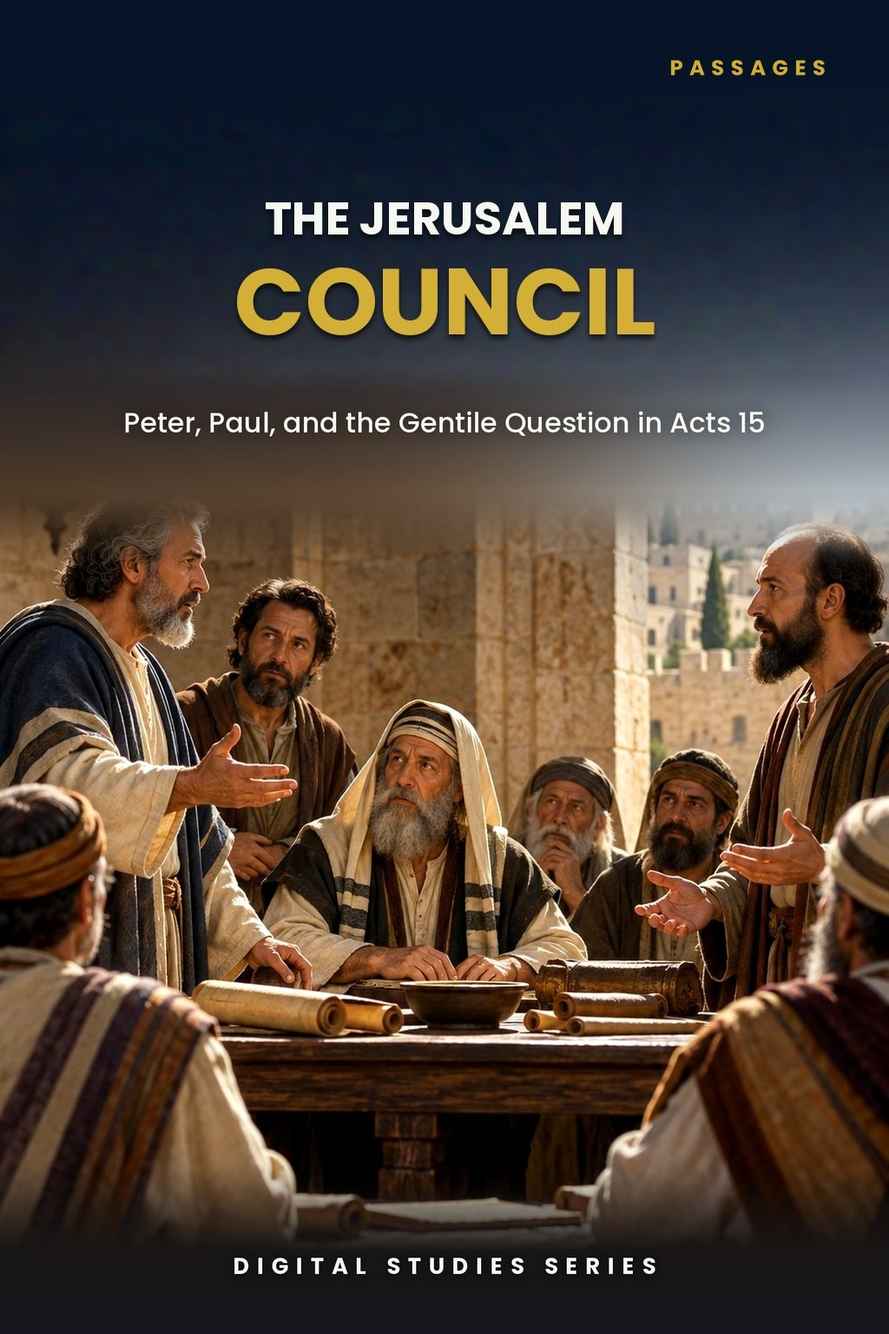
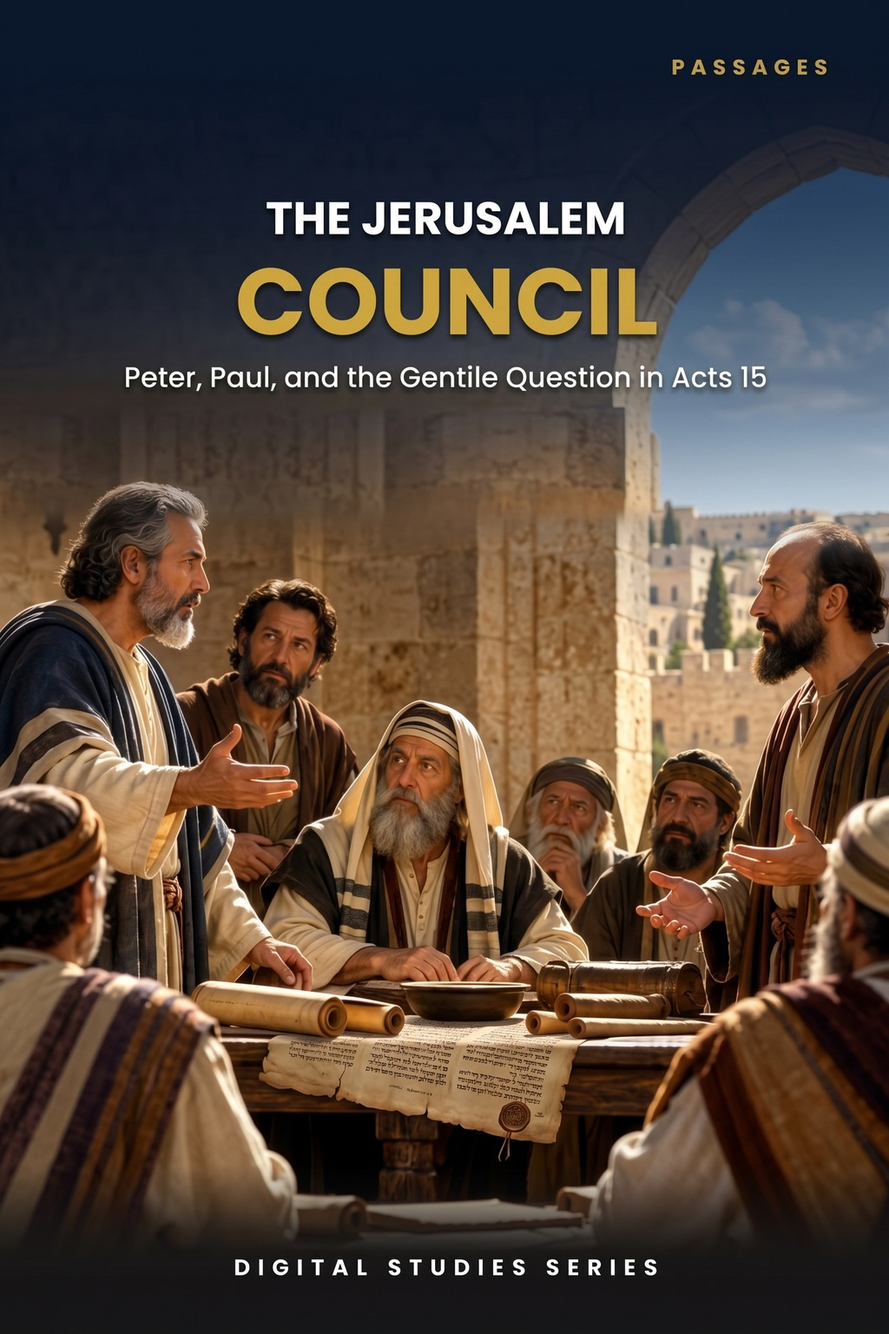
Study 19: Roboto rebuild to Master Standard v1.30, three PAM additions, new cover (jpg+webp), three previews, 16 pages; tracker v1.48
Claude-Session: https://claude.ai/code/session_01TLNFW47XCW6YAMUxScR3v4

diff --git a/study-19-the-jerusalem-council.html b/study-19-the-jerusalem-council.html
@@ -14,15 +14,15 @@
   <body class="study-detail-page">
     <header class="site-header"><div class="wrap nav"><a class="logo" href="index.html" aria-label="Zay-Marie Press home"><img src="assets/zay-marie-press-logo-hq.png" alt="Zay-Marie Press" width="420" height="238" /></a><button class="menu-toggle" type="button" aria-expanded="false" aria-controls="primary-nav">MENU</button><nav aria-label="Primary navigation" class="primary-nav" id="primary-nav"><a href="index.html">HOME</a><a href="books.html">BOOKS</a><a href="series.html">SERIES</a><a class="active" aria-current="page" href="digital-studies.html">DIGITAL STUDIES</a><a href="biblical-hermeneutics-course.html">COURSE</a><a href="about.html">ABOUT</a><a href="resources.html">RESOURCES</a><a href="contact.html">CONTACT</a></nav></div></header>
     <main>
-      <section class="detail-hero"><div class="wrap detail-hero-grid"><div class="detail-cover"><img src="assets/study-19-cover.jpg" alt="The Jerusalem Council - Study 19 cover" /></div><div><div class="eyebrow">STUDY 19 · DIGITAL STUDY</div><h1>The Jerusalem Council</h1><p class="detail-subtitle">Fellowship and Distinction During the Acts Overlap</p><p class="detail-kicker">A Biblical Study of Acts 15, the Jerusalem Decree, and Recognition Without Absorption</p><p class="detail-copy">Acts 15 records a decisive meeting over whether Gentile believers must be circumcised and commanded to keep the Law of Moses. Peter testified, Paul and Barnabas reported God’s work among the Gentiles, James appealed to Israel’s prophetic Scriptures, and a judgment was sent in writing.</p><p class="detail-copy">This study examines the council’s testimony, decree, and historical setting. It shows how recognition, fellowship, and practical agreement operate during Acts 9–28 while Prophecy and Mystery remain distinct.</p><div class="detail-buyline"><span class="detail-price">$5.99</span><span class="detail-format">Digital PDF · 13 Pages</span><span class="detail-button pending" aria-disabled="true">Checkout Coming Soon</span></div></div></div></section>
+      <section class="detail-hero"><div class="wrap detail-hero-grid"><div class="detail-cover"><picture><source srcset="assets/study-19-cover.webp" type="image/webp"><img src="assets/study-19-cover.jpg" alt="The Jerusalem Council - Study 19 cover" /></picture></div><div><div class="eyebrow">STUDY 19 · DIGITAL STUDY</div><h1>The Jerusalem Council</h1><p class="detail-subtitle">Fellowship and Distinction During the Acts Overlap</p><p class="detail-kicker">A Biblical Study of Acts 15, the Jerusalem Decree, and Recognition Without Absorption</p><p class="detail-copy">Acts 15 records a decisive meeting over whether Gentile believers must be circumcised and commanded to keep the Law of Moses. Peter testified, Paul and Barnabas reported God’s work among the Gentiles, James appealed to Israel’s prophetic Scriptures, and a judgment was sent in writing.</p><p class="detail-copy">This study examines the council’s testimony, decree, and historical setting. It shows how recognition, fellowship, and practical agreement operate during Acts 9–28 while Prophecy and Mystery remain distinct.</p><div class="detail-buyline"><span class="detail-price">$5.99</span><span class="detail-format">Digital PDF · 16 Pages</span><span class="detail-button pending" aria-disabled="true">Checkout Coming Soon</span></div></div></div></section>
       <section class="detail-section"><div class="wrap"><div class="eyebrow">ABOUT THIS STUDY</div><h2>What Did the Jerusalem Council Recognize and Resolve?</h2><p class="lead">Acts 15 did not create Paul’s Gentile ministry or make Jerusalem the source of his apostleship. The council faced a concrete controversy: whether Gentile believers had to be circumcised and placed under Israel’s Mosaic administration in order to stand properly before God.</p><p class="lead">The resulting decision preserves genuine fellowship and rejects the disputed Mosaic requirement without collapsing the ministries present at the meeting. James’s use of Amos shows that Gentile blessing agrees with Prophecy; it does not make the Mystery concerning the Body of Christ a truth already revealed in Prophecy.</p><p class="lead">This is not a study of Peter’s and Paul’s commissions in general, which Study 18 compares on its own terms, nor of James 2’s own treatment of faith and works, which Study 15 reads within its own setting, nor of circumcision traced as a whole subject, which Study 51 examines in full. Its task is narrower: to read Acts 15 as a concrete controversy — whether Gentile believers had to be circumcised and placed under Israel’s Mosaic administration — and to show what the council actually decided, not what later disputes assume it decided.</p><div class="study-distinction"><h3>How These Studies Relate</h3><p>Study 19 examines the Acts 15 controversy, testimony, decree, and recognition of ministry to Gentiles.</p><p><a href="study-18-peter-and-paul-distinct-apostolic-commissions.html">Study 18 — Peter and Paul: Distinct Apostolic Commissions</a> Establish the distinct commissions of the apostles present at the council; this keeps its shared deliberation from implying identical audiences and assignments.</p><p><a href="study-15-faith-and-works-in-james-and-paul.html">Study 15 — Faith and Works in James and Paul</a> Separate the council’s circumcision question from James 2’s treatment of faith and works; reading each dispute on its own terms prevents a false shortcut between them.</p><p><a href="study-51-circumcision.html">Study 51 — Circumcision</a> Trace circumcision itself in full — Israel’s fleshly sign, the Body’s non-fleshly circumcision of Christ, and the two opposite errors a careful reader must avoid on either side of this council’s own test case.</p><p class="connection-guide-link"><a href="study-connections.html#study-19">Explore the full connection guide for Study 19 →</a></p></div></div></section>
       <section class="detail-section soft"><div class="wrap"><div class="eyebrow">WHAT YOU’LL STUDY</div><h2>Follow Acts 15 in Its Historical Setting</h2><div class="study-points">
-        <div class="study-point"><h3>The Circumcision and Law Controversy</h3><p>Identify the precise demand that brought Paul and Barnabas to Jerusalem and why it required an answer.</p></div>
-        <div class="study-point"><h3>Peter’s Testimony</h3><p>Trace what Peter established about God’s acceptance of Gentiles apart from the Mosaic yoke.</p></div>
-        <div class="study-point"><h3>Paul and Barnabas’s Ministry</h3><p>See why their report presents a Gentile ministry already underway rather than one created by Jerusalem.</p></div>
-        <div class="study-point"><h3>James, Amos 9, and Prophecy</h3><p>Read James’s appeal in its prophetic setting without making the Mystery the fulfillment of Amos.</p></div>
-        <div class="study-point"><h3>The Jerusalem Decree</h3><p>Understand the practical instructions given to Gentile believers without treating them as Israel’s Mosaic administration.</p></div>
-        <div class="study-point"><h3>Recognition Without Absorption</h3><p>Learn how fellowship and practical agreement can remain genuine while distinct ministries retain their revealed purposes.</p></div>
+        <div class="study-point"><h3>The Circumcision and Law Controversy</h3><p>Identify the precise demand that brought Paul and Barnabas to Jerusalem by reading Acts 15:1–5 and recording exactly what is demanded, and by whom.</p></div>
+        <div class="study-point"><h3>Peter’s Testimony</h3><p>Trace what Peter appeals to in Acts 15:7–11 and which question his testimony is answering.</p></div>
+        <div class="study-point"><h3>Paul and Barnabas’s Report</h3><p>Observe what Paul and Barnabas report in Acts 15:12 and ask how that report bears on the question the council has been asked to decide.</p></div>
+        <div class="study-point"><h3>James, Amos 9, and Prophecy</h3><p>Follow James’s citation in Acts 15:13–18 against Amos 9:11–12, noting what he cites, what he says it agrees with, and what the prophet’s own passage says.</p></div>
+        <div class="study-point"><h3>The Jerusalem Decree</h3><p>Read the decree and the letter in Acts 15:19–29 phrase by phrase, noting what they impose, what they do not, and where the letter places the disturbance.</p></div>
+        <div class="study-point"><h3>Fellowship, Recognition, and Agreement</h3><p>Practice separating fellowship, recognition, and practical agreement from claims the text of Acts 15 does not state, with the council placed on the Acts 9–28 timeline.</p></div>
       </div></div></section>
       <section class="detail-section cream"><div class="wrap"><div class="eyebrow">KEY SCRIPTURES</div><h2>Examine the Council Texts for Yourself</h2><div class="scripture-grid">
         <div class="scripture-card"><h3>Acts 15:1–5</h3><p>Circumcision and Law keeping are presented as requirements for salvation. The passage defines the actual controversy brought before the council.</p></div>
@@ -36,13 +36,12 @@
       </div></div></section>
       <section class="detail-section"><div class="wrap"><div class="eyebrow">FROM THE STUDY</div><h2>Recognition and Practical Agreement</h2><div class="excerpt"><blockquote>“The council did not create Paul’s ministry. It confronted a controversy arising because that ministry was already operating.”</blockquote><p>Acts 15 locates Peter, James, Paul, and Barnabas in the same historical period, addressing a real dispute. Their interaction, testimony, and practical judgment demonstrate that concurrence does not require their ministries to become identical.</p></div></div></section>
       <section class="detail-section soft"><div class="wrap"><div class="eyebrow">A LOOK INSIDE</div><h2>Preview the Study Before You Purchase</h2><p class="preview-instruction">Click any page to enlarge it for reading.</p><div class="preview-grid">
-        <div class="preview-card"><a class="preview-image-link" data-preview-lightbox href="assets/study-19-page-2.jpg"><img src="assets/study-19-page-2.jpg" alt="Study 19 interior preview — page 2, What You Will Learn in This Study" /></a><div class="page-no">Page 2</div><h3>What You Will Learn in This Study</h3><p>Begin with the governing questions, controls, and distinctions that guide the study of Acts 15.</p></div>
-        <div class="preview-card"><a class="preview-image-link" data-preview-lightbox href="assets/study-19-page-5.jpg"><img src="assets/study-19-page-5.jpg" alt="Study 19 interior preview — page 5, Peter’s testimony and Paul’s ministry" /></a><div class="page-no">Page 5</div><h3>Peter’s Testimony and Paul’s Ministry</h3><p>Trace the divine work already acknowledged at Jerusalem and the distinct ministries represented there.</p></div>
-        <div class="preview-card"><a class="preview-image-link" data-preview-lightbox href="assets/study-19-page-7.jpg"><img src="assets/study-19-page-7.jpg" alt="Study 19 interior preview — page 7, the Jerusalem Decree" /></a><div class="page-no">Page 7</div><h3>The Jerusalem Decree</h3><p>Examine the practical judgment that rejects circumcision and Mosaic Law keeping for Gentile believers.</p></div>
-        <div class="preview-card"><a class="preview-image-link" data-preview-lightbox href="assets/study-19-page-11.jpg"><img src="assets/study-19-page-11.jpg" alt="Study 19 interior preview — page 11, study summary and diagnostic table" /></a><div class="page-no">Page 11</div><h3>Study Summary and Diagnostic Table</h3><p>Review the questions answered in Acts 15 and the distinctions needed to read the council carefully.</p></div>
+        <div class="preview-card"><a class="preview-image-link" data-preview-lightbox href="assets/study-19-page-2.jpg"><img src="assets/study-19-page-2.jpg" alt="Study 19 interior preview — page 2, table of contents" /></a><div class="page-no">Page 2</div><h3>Table of Contents</h3><p>See the full structure of the study, from the introduction through the final synthesis.</p></div>
+        <div class="preview-card"><a class="preview-image-link" data-preview-lightbox href="assets/study-19-page-3.jpg"><img src="assets/study-19-page-3.jpg" alt="Study 19 interior preview — page 3, what you will learn" /></a><div class="page-no">Page 3</div><h3>What You Will Learn</h3><p>See the skills and interpretive disciplines you will practice, and the goal the study sets for the reader.</p></div>
+        <div class="preview-card"><a class="preview-image-link" data-preview-lightbox href="assets/study-19-page-4.jpg"><img src="assets/study-19-page-4.jpg" alt="Study 19 interior preview — page 4, introduction and the controversy" /></a><div class="page-no">Page 4</div><h3>Introduction and the Controversy</h3><p>Begin with the question Acts 15 raises and the demand that brought Paul and Barnabas to Jerusalem.</p></div>
       </div></div></section>
       <section class="detail-section"><div class="wrap"><div class="eyebrow">WHAT’S INCLUDED</div><h2>A Focused Study Built for<br />Understanding and Teaching</h2><div class="includes-grid">
-        <div class="include-item"><h3>13-Page Biblical Study</h3><p>A focused study of Acts 15, its controversy, testimony, decree, and historical setting.</p></div>
+        <div class="include-item"><h3>16-Page Biblical Study</h3><p>A focused study of Acts 15, its controversy, testimony, decree, and historical setting.</p></div>
         <div class="include-item"><h3>Six Core Teaching Sections</h3><p>Follow the council from the original dispute through its doctrinal and practical resolution.</p></div>
         <div class="include-item"><h3>Amos 9 Comparison</h3><p>Distinguish Gentile blessing in Prophecy from the Mystery revealed through Paul.</p></div>
         <div class="include-item"><h3>Acts 15 Teaching Table</h3><p>Use the study’s movement-and-conclusion table to trace each part of the council.</p></div>
@@ -51,7 +50,7 @@
         <div class="include-item"><h3>Scripture-Tracing Exercise</h3><p>Work through Acts 15, Amos 9, Galatians 2, and related passages directly from Scripture.</p></div>
         <div class="include-item"><h3>Teaching and Discussion Tools</h3><p>Use the teaching outline, review questions, and guided further study for personal or group study.</p></div>
       </div></div></section>
-      <section class="detail-section cream"><div class="wrap"><div class="final-buy"><div><div class="eyebrow">STUDY 19 · DIGITAL STUDY</div><h2>The Jerusalem Council</h2><p>13-page digital PDF · For personal use</p></div><div class="final-offer"><div class="detail-price">$5.99</div><span class="detail-button pending" aria-disabled="true">Checkout Coming Soon</span></div></div><a class="back-link" href="digital-studies.html">← Back to All Digital Studies</a></div></section>
+      <section class="detail-section cream"><div class="wrap"><div class="final-buy"><div><div class="eyebrow">STUDY 19 · DIGITAL STUDY</div><h2>The Jerusalem Council</h2><p>16-page digital PDF · For personal use</p></div><div class="final-offer"><div class="detail-price">$5.99</div><span class="detail-button pending" aria-disabled="true">Checkout Coming Soon</span></div></div><a class="back-link" href="digital-studies.html">← Back to All Digital Studies</a></div></section>
     <section class="study-method-course-bridge"><div class="wrap"><div class="study-method-course-panel"><div><div class="eyebrow">BUILD THE INTERPRETIVE METHOD</div><h2>Want More Than a Focused Study?</h2><p>Digital Studies examine particular biblical subjects and difficult passages. The 40-lesson Biblical Hermeneutics course teaches a complete, repeatable method for establishing meaning in context, determining proper assignment, and making responsible application.</p></div><a class="btn btn-primary" href="biblical-hermeneutics-course.html">BIBLICAL HERMENEUTICS COURSE</a></div></div></section></main><footer class="site-footer"><div class="wrap footer-grid"><div class="footer-about"><h3>Zay-Marie Press</h3><p class="footer-tagline"><em>Where the Bible Means What It Says.</em></p><p>Zay-Marie Press is a Christian theological publisher dedicated to producing doctrinally precise, carefully structured biblical resources that equip pastors, teachers, and serious students with clarity, depth, and Scripture-anchored truth.</p><p><a href="https://zaymariepress.com">zaymariepress.com</a><br/><a href="mailto:info@zaymariepress.com">info@zaymariepress.com</a></p></div><div class="footer-column"><h3>Explore</h3><div class="footer-links-stacked"><a href="books.html">Books</a><br/><a href="series.html">Series</a><br/><a href="biblical-hermeneutics-course.html">Course</a><br/><a href="digital-studies.html">Digital Studies</a><br/><a href="resources.html">Resources</a><br/><a href="bible-book-summaries.html">Bible Book Summaries</a><br/><a href="doctrinal-packets.html">Doctrinal Packets</a><br/><a href="historical-drift.html">Historical Drift</a><br/><a href="about.html">About</a><br/><a href="contact.html">Contact</a></div></div><div class="footer-column"><h3>Reader Support</h3><div class="footer-links-stacked"><a href="reader-support.html#faq">FAQ</a><br/><a href="reader-support.html#shipping-returns">Shipping &amp; Returns</a><br/><a href="reader-support.html#digital-downloads">Digital Downloads</a><br/><a href="reader-support.html#contact-support">Contact Support</a></div></div><div class="footer-column"><h3>Acts Overlap</h3><p><strong>Acts Overlap Theology Series</strong></p><p><em>Two Distinct Streams. One Overlap.</em></p><p><a href="series.html">Series Overview</a></p></div></div><div class="wrap footer-bottom">© 2026 Zay-Marie Press. All rights reserved.</div></footer>
     <div class="preview-lightbox" id="preview-lightbox" role="dialog" aria-modal="true" aria-label="Expanded study preview"><button class="preview-lightbox-close" type="button" aria-label="Close preview">×</button><img id="preview-lightbox-image" alt="" /></div>
     <script>

diff --git a/site.js b/site.js
@@ -62,7 +62,7 @@ const resourceModal=document.querySelector('#resource-modal'), resourceModalTitl
 if(resourceModal&&resourceModalTriggers.length){const closeResourceModal=()=>{resourceModal.hidden=true;document.body.classList.remove('resource-modal-open');lastResourceTrigger?.focus();};resourceModalTriggers.forEach(trigger=>trigger.addEventListener('click',()=>{lastResourceTrigger=trigger;if(resourceModalTitle)resourceModalTitle.textContent=trigger.dataset.title||'Resource';if(resourceModalDescription)resourceModalDescription.textContent=trigger.dataset.description||'';if(resourceModalLink){resourceModalLink.href=trigger.dataset.href||'#';resourceModalLink.textContent=trigger.dataset.linkText||'OPEN RESOURCE';}resourceModal.hidden=false;document.body.classList.add('resource-modal-open');resourceModalClose?.focus();}));resourceModalClose?.addEventListener('click',closeResourceModal);resourceModal.addEventListener('click',e=>{if(e.target===resourceModal)closeResourceModal();});document.addEventListener('keydown',e=>{if(e.key==='Escape'&&!resourceModal.hidden)closeResourceModal();});}
 
 /* Display the verified final-PDF page count at the primary purchase decision point. */
-const digitalStudyPageCounts={1:14,2:14,3:18,4:18,5:16,6:16,7:16,8:16,9:16,10:23,11:15,12:14,13:18,14:15,15:16,16:16,17:18,18:18,19:13,20:13,21:14,22:15,23:15,24:13,25:13,26:17,27:15,28:14,29:13,30:17,31:17,32:14,33:15,34:16,35:15,36:15,37:15,38:16,39:16,40:15,41:15,42:15,43:17,44:15,45:15,46:15,47:16,48:15,49:14,50:14,51:15,52:15,53:15,54:15,55:16,56:16,61:16,62:16,63:16,64:16,65:16,66:16,67:16,68:16,69:16,70:16,71:16};
+const digitalStudyPageCounts={1:14,2:14,3:18,4:18,5:16,6:16,7:16,8:16,9:16,10:23,11:15,12:14,13:18,14:15,15:16,16:16,17:18,18:18,19:16,20:13,21:14,22:15,23:15,24:13,25:13,26:17,27:15,28:14,29:13,30:17,31:17,32:14,33:15,34:16,35:15,36:15,37:15,38:16,39:16,40:15,41:15,42:15,43:17,44:15,45:15,46:15,47:16,48:15,49:14,50:14,51:15,52:15,53:15,54:15,55:16,56:16,61:16,62:16,63:16,64:16,65:16,66:16,67:16,68:16,69:16,70:16,71:16};
 const digitalStudyMatch=window.location.pathname.match(/\/study-(\d+)-/i);
 const digitalStudyFormat=document.querySelector('.detail-hero .detail-format');
 if(digitalStudyMatch&&digitalStudyFormat){const studyNumber=Number(digitalStudyMatch[1]),pageCount=digitalStudyPageCounts[studyNumber];if(pageCount)digitalStudyFormat.textContent=`Digital PDF · ${pageCount} Pages`;}

diff --git a/controlling-documents/Digital_Studies_PAM_Audit_v1.48.md b/controlling-documents/Digital_Studies_PAM_Audit_v1.48.md
@@ -277,3 +277,4 @@ Study 15 PDF not yet supplied. Typography: none of Studies 2, 3, 6, 8 is in EB G
 - v1.45 (2026-10-01): Publisher live check: Study 16 page confirmed working. Catalog category rules and rulings (publisher, 2026-10-01) recorded as controlling-documents/Digital_Studies_Category_Standard_v1.0.md. Catalog re-sorted: 1, 34, 44, 45, 46, 60 to Doctrinal Terms & Themes; 6, 11, 43, 59 to The Body of Christ & Grace; 18, 36 to Foundational Distinctions; 41 to Israel, Prophecy & Covenants; 58 stays Foundations. Further rulings the same day on the ten open studies: 2 to Israel & Prophecy; 14 to Body of Christ; 38 and 39 to Foundations; 68 to Doctrinal Themes; 13, 26, 61, 64, 71 stay in Israel & Prophecy. Final counts: 7 / 17 / 14 / 13 / 20 (71). Cover labels re-lettered (jpg, webp and size variants where they exist): 1 DOCTRINE, 6 and 11 BODY OF CHRIST, 18 RIGHT DIVISION, 34 DOCTRINE, 36 RIGHT DIVISION, 41 PROPHECY, 43 BODY OF CHRIST, 58 RIGHT DIVISION, 59 BODY OF CHRIST, 60 BIBLICAL DOCTRINE (two-line form), and from the later rulings 2 PROPHECY, 14 BODY OF CHRIST, 38 and 39 RIGHT DIVISION, 68 BIBLICAL DOCTRINE (two-line form). Relationship Map v1.39. Not pushed pending approval. The Category Standard was made final and binding at the publisher's direction ("set in stone"): it now carries an ordered decision procedure, precedents by kind and add-a-study steps, so Claude classifies new studies without asking and reports the category with a one-line reason; CLAUDE.md's catalog-sections list was rewritten to match. Master Standard bumped to v1.31 (new §19 Catalog Category Standard). Rule-sync rule adopted at the publisher's direction: every rule goes in both CLAUDE.md and the Master Standard, updated in the same pass; recorded in CLAUDE.md and in Master Standard §1.
 - v1.46 (2026-10-01): Publisher live check of the catalog (built-in browser, phone-width pane): pill counts 7 / 17 / 14 / 13 / 20 and card order as pushed in 13d7748. Publisher ruling: a cover label must be an actual category name, so RIGHT DIVISION is not allowed (and PROPHECY alone and DOCTRINE are not exact either). Label inventory of all 71 covers; 43 re-lettered to the exact category name in each cover's own style (jpg, webp, png and size variants where they exist): FOUNDATIONS on 4, 18, 32, 36, 38, 39, 58; ISRAEL & PROPHECY on 2, 7, 9, 10, 12, 13, 17, 21, 23, 26, 27, 35, 40, 41, 61; DOCTRINAL THEMES on 1, 31, 33, 34, 42, 44, 45, 46, 49–52, 54–57 (Study 53 uses a two-line DOCTRINAL / THEMES because of its light beam); two-line heading form on 60, 68, 69 (DOCTRINAL TERMS / & THEMES) and 64 (ISRAEL, PROPHECY / & COVENANTS). Body of Christ and Passages covers were already correct. Category Standard v1.1 and Master Standard v1.32 updated (rule-sync). Not pushed pending approval.
 - v1.47 (2026-10-01): Catalog regression fixed and logged. After the v1.45/v1.46 pushes (13d7748, 3b86388) the publisher reported that the category pill buttons no longer worked. Cause: the re-sort script removed the Thematic Collections section and broke the catalog's inline scripts. Fix (29b411c, approved "i approve"): the catalog was rebuilt from the pre-re-sort page and only the study cards were moved; non-card content is identical to the earlier version. Checked locally before pushing: desktop pills 7 / 17 / 14 / 13 / 20 / 71 by clicking each, phone-width category select the same, 8 collection cards, no script errors. Checked live afterward (built-in browser pane, about 804 px wide, cache-busted): 8 collection cards present; category select returns 7 / 17 / 14 / 13 / 20 / 71. Not checked live: clicking the desktop pill buttons (hidden at that pane width); the publisher is asked to confirm on his phone. Lesson recorded: after any catalog edit, click every pill and count collections and script errors, not only card counts. No study files or rules changed.
+- v1.48 (2026-10-01): Study 19 (The Jerusalem Council) read in full against the PAM and Framework from the publisher's DOCX (CORRECTED, 12 pages): clear, no conflicts (Acts 15 kept in the Acts 9–28 Overlap and not assigned to one program, matching the Section 4 ruling; "recognition without absorption" matches the PAM's "recognition of two ministries operating in overlap"; the study never says the Body began at Acts 15). The publisher approved three PAM additions, inserted exactly as proposed: (1) Cornelius (Acts 10–11) stated as an event within Israel's Prophecy Program during the Overlap, not Pauline revelation and not the beginning of the Body (replaces the first sentence of the Peter's-testimony paragraph, Section 2); (2) Galatians 2:7–9, gospel of the uncircumcision and of the circumcision, "the text states the two commissions; the council does not merge them" (Section 9, after "It is recognition without absorption."); (3) "Nothing in Acts 15 applies the New Covenant to Gentiles. The council addresses what may be required of Gentile believers, not who the covenant parties are." (end of "The Importance of What Was Not Imposed", Section 6). The publisher ruled that the decree wording on the four restrictions (not automatically a shortened Mosaic Law) stays as written. Rebuilt in Roboto to Master Standard v1.30: 16 pages (cover plus 15 interior; the source text alone fills 14 interior pages in this format, so only one of five drafted KJV tables was kept: "Acts 15:16–17 Beside Amos 9:11–12"; the other four, Road to the Council, Peter Recalls Cornelius, the Letter in Acts 15:22–29 and Galatians 2:1–10 Beside Acts 15, are written and held back for length), margins 0.667 in. "What You Will Learn" bullets rewritten as process (five of eight stated conclusions; §17), Study Goal reworded ("explain, from the text itself, what the council recognized and what it resolved"), Interpretive Control moved to the Introduction, Study Outline redrafted as process-only bullets, seven callouts reduced to five boxed (Study Goal, Interpretive Control, Prophecy Remains Prophecy, Acts Overlap Principle, Final Doctrinal Principle; The Central Question and The Decree Is Not a Shortened Mosaic Covenant became bold run-in paragraphs), TOC first with page numbers, Teaching Outline and Guided Further Study split into bullets, running header removed, standard imprint (personal-use wording dropped), one spacer paragraph so a data table and a callout do not merge, Scripture-Tracing table allowed to break across pages. Word-by-word comparison against the source shows only the intended changes. Category: Passages (already ruled; one passage walked verse by verse), cover label PASSAGES. Cover: the publisher supplied a new image (1684 x 2528) which replaces the earlier art, trimmed 2 px and scaled to 1024 x 1536; JPG and a new WebP (page now uses a picture element with the JPG as fallback). Website: preview strip cut from four cards to three (Table of Contents p2, What You Will Learn p3, Introduction and the Controversy p4); old p5, p7 and p11 images removed; the six "What You'll Study" points rewritten as process (five stated conclusions; §17); page count 13 to 16 in site.js, the hero line, the What's Included card and the buy panel. Checked locally at 1280, 390, 360 and 320 px: no sideways overflow, all images load, 3 preview cards, 6 study points, no script errors. Publisher approved ("i approv") and pushed. Choice for the publisher to review: no page of this study is free of conclusions, so the third preview page is page 4 (the introduction and the controversy), the least conclusive. Next file needed: Study 20.
